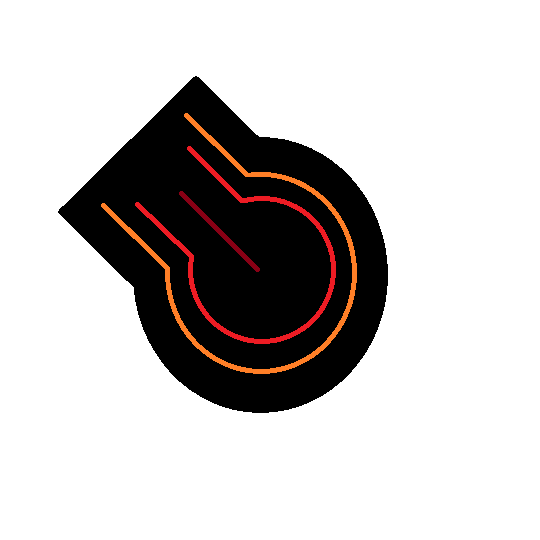
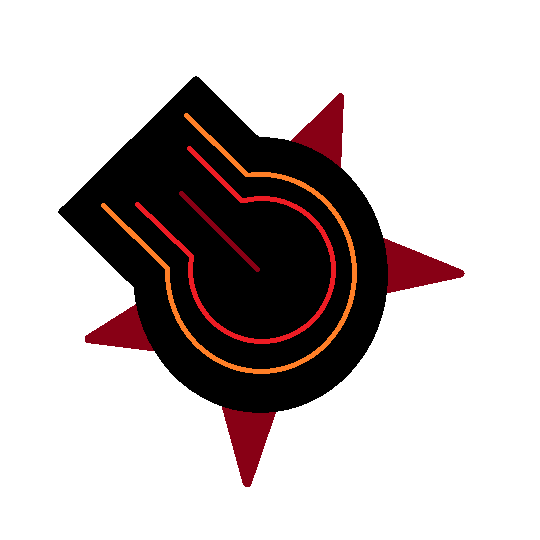
Updated sentry cannon pics, added Point.is_origin, fixed bug with sentry cannon targeting, updated sentry and forest heart descriptions.

diff --git a/Maneuver.js b/Maneuver.js
@@ -340,16 +340,20 @@ class Point{
      * (0, 0) returns false.
      */
     on_axis(){
-        var is_origin = point_equals(this, new Point(0, 0));
-        return (this.x === 0 || this.y === 0) && !is_origin;
+        return (this.x === 0 || this.y === 0) && !this.is_origin();
     }
     /**
      * @returns true if the point is on the lines y = x or y = -x, false otherwise.
      * (0, 0) returns false.
      */
     on_diagonal(){
-        var is_origin = point_equals(this, new Point(0, 0));
-        return Math.abs(this.x) === Math.abs(this.y) && !is_origin;
+        return Math.abs(this.x) === Math.abs(this.y) && !this.is_origin()
+    }
+    /**
+     * @returns true if the point is the origin (0, 0).
+     */
+    is_origin(){
+        return point_equals(this, new Point(0, 0));
     }
 }
 
@@ -1752,7 +1756,7 @@ const young_dragon_death_message =
 const forest_heart_floor_message = 
     `In the center of the floor stands a massive tree trunk spanning from floor to ceiling.`;
 const forest_heart_description = 
-    `An ancient tree warped by dark magic. Cannot take more than 1 damage each turn. `;
+    `Forest Heart (Boss): An ancient tree warped by dark magic. Cannot take more than 1 damage each turn. `;
 const forest_heart_death_message = 
     `Branches rain from above as the ancient tree is felled.`
 
@@ -1769,12 +1773,12 @@ const arcane_sentry_floor_message =
     `An alarm begins to blare.\n`
     +`INTRUDER DETECTED!`
 const arcane_sentry_description =
-    `An automated defense station. Changes modes in response to damage.`;
+    `Arcane Sentry (Boss): An automated defense station. Changes modes in response to damage.`;
 const arcane_sentry_death_message =
     `MAIN SYSTEMS FAILING!\n`
     +`The wailing alarm falls silent.`;
 const arcane_sentry_node_description =
-    `A transformable node controlled by the Arcane Sentry.`
+    `Arcane Sentry Node: A transformable node controlled by the Arcane Sentry.`
 const arcane_sentry_node_death_message =
     `NODE OFFLINE!`;
 
@@ -2317,7 +2321,7 @@ const SENTRY_MAX_CANNON_CYCLE = 3;
 
 /** @type {TileGenerator} */
 function arcane_sentry_tile(){
-    var health = 5;
+    var health = 6;
     if(GS.boons.has(boon_names.boss_slayer)){
         health -= 2;
     }
@@ -2408,6 +2412,7 @@ function arcane_sentry_death(self, target, map){
     for(var node of nodes){
         node.self.tile.health = 1;
         node.self.tile.on_hit = undefined;
+        node.self.tile.on_death = undefined;
         map.attack(node.self.location);
     }
     boss_death(self, target, map);
@@ -6939,7 +6944,7 @@ function sentry_transform_cannon(self, target, map){
             tile.direction = direction;
             set_rotation(tile);
             var node_difference = target.difference.minus(node.target.difference);
-            if(point_equals(node_difference.plus(direction), new Point(0, 0))){
+            if(node_difference.plus(direction).is_origin()){
                 // Node is behind core so should be double cannon.
                 tile.pic = `${IMG_FOLDER.tiles}arcane_sentry_node_double_cannon_d.png`;
                 tile.behavior = node_double_cannon_behavior;
@@ -6954,7 +6959,7 @@ function sentry_transform_cannon(self, target, map){
                 tile.description = arcane_sentry_node_description + `\n` + sentry_node_cannon_description;
             }
         }
-        self.tile.pic = `${IMG_FOLDER.tiles}arcane_sentry_core.png`;
+        self.tile.pic = `${IMG_FOLDER.tiles}arcane_sentry_core_cannon_d.png`;
         self.tile.telegraph = undefined;
         self.tile.direction = undefined;
         self.tile.description = arcane_sentry_description+ `\n` + sentry_core_cannon_description;
@@ -6962,7 +6967,7 @@ function sentry_transform_cannon(self, target, map){
 }
 
 function sentry_cannon_direction(difference){
-    if(difference.on_diagonal()){
+    if(difference.on_diagonal() || difference.on_axis()){
         return sign(difference);
     }
     if(-1 <= difference.x && difference.x <= 1){
@@ -8841,7 +8846,7 @@ class GameMap{
         if( // Pressure points boon
             stunned && 
             GS.boons.has(boon_names.pressure_points) > random_num(3) && 
-            !point_equals(direction, new Point(0, 0))
+            !direction.is_origin()
         ){
             this.player_attack(direction);
         }
@@ -9086,7 +9091,7 @@ class GameState{
                 }
                 if( // Dazing Blows
                     this.boons.has(boon_names.dazing_blows) && 
-                    !point_equals(action.change, new Point(0, 0)) &&
+                    !action.change.is_origin() &&
                     this.map.is_in_bounds(target) &&
                     !this.map.get_tile(target).tags.has(TAGS.boss)
                 ){
@@ -9094,7 +9099,7 @@ class GameState{
                 }
                 if( // Pacifism
                     this.boons.has(boon_names.pacifism) && 
-                    !point_equals(action.change, new Point(0, 0))
+                    !action.change.is_origin()
                 ){
                     stun_count += 2 * attack_count;
                     attack_count = 0;
@@ -10994,7 +10999,7 @@ function explain_action(action){
         case `teleport`:
             return move_types.teleport;
         case `stun`:
-            if(point_equals(action.change, new Point(0, 0))){
+            if(action.change.is_origin()){
                 return move_types.confuse;
             }
             return `${move_types.stun}: ${target}`;

diff --git a/source/2_entities/util/spells/arcane_sentry_spells/sentry_cannon.js b/source/2_entities/util/spells/arcane_sentry_spells/sentry_cannon.js
@@ -48,7 +48,7 @@ function sentry_transform_cannon(self, target, map){
             tile.direction = direction;
             set_rotation(tile);
             var node_difference = target.difference.minus(node.target.difference);
-            if(point_equals(node_difference.plus(direction), new Point(0, 0))){
+            if(node_difference.plus(direction).is_origin()){
                 // Node is behind core so should be double cannon.
                 tile.pic = `${IMG_FOLDER.tiles}arcane_sentry_node_double_cannon_d.png`;
                 tile.behavior = node_double_cannon_behavior;
@@ -63,7 +63,7 @@ function sentry_transform_cannon(self, target, map){
                 tile.description = arcane_sentry_node_description + `\n` + sentry_node_cannon_description;
             }
         }
-        self.tile.pic = `${IMG_FOLDER.tiles}arcane_sentry_core.png`;
+        self.tile.pic = `${IMG_FOLDER.tiles}arcane_sentry_core_cannon_d.png`;
         self.tile.telegraph = undefined;
         self.tile.direction = undefined;
         self.tile.description = arcane_sentry_description+ `\n` + sentry_core_cannon_description;
@@ -71,7 +71,7 @@ function sentry_transform_cannon(self, target, map){
 }
 
 function sentry_cannon_direction(difference){
-    if(difference.on_diagonal()){
+    if(difference.on_diagonal() || difference.on_axis()){
         return sign(difference);
     }
     if(-1 <= difference.x && difference.x <= 1){

diff --git a/source/1_gametext/descriptions/entities/bosses.js b/source/1_gametext/descriptions/entities/bosses.js
@@ -83,7 +83,7 @@ const young_dragon_death_message =
 const forest_heart_floor_message = 
     `In the center of the floor stands a massive tree trunk spanning from floor to ceiling.`;
 const forest_heart_description = 
-    `An ancient tree warped by dark magic. Cannot take more than 1 damage each turn. `;
+    `Forest Heart (Boss): An ancient tree warped by dark magic. Cannot take more than 1 damage each turn. `;
 const forest_heart_death_message = 
     `Branches rain from above as the ancient tree is felled.`
 
@@ -100,12 +100,12 @@ const arcane_sentry_floor_message =
     `An alarm begins to blare.\n`
     +`INTRUDER DETECTED!`
 const arcane_sentry_description =
-    `An automated defense station. Changes modes in response to damage.`;
+    `Arcane Sentry (Boss): An automated defense station. Changes modes in response to damage.`;
 const arcane_sentry_death_message =
     `MAIN SYSTEMS FAILING!\n`
     +`The wailing alarm falls silent.`;
 const arcane_sentry_node_description =
-    `A transformable node controlled by the Arcane Sentry.`
+    `Arcane Sentry Node: A transformable node controlled by the Arcane Sentry.`
 const arcane_sentry_node_death_message =
     `NODE OFFLINE!`;
 

diff --git a/source/0_assorted_util/general/Point.js b/source/0_assorted_util/general/Point.js
@@ -146,16 +146,20 @@ class Point{
      * (0, 0) returns false.
      */
     on_axis(){
-        var is_origin = point_equals(this, new Point(0, 0));
-        return (this.x === 0 || this.y === 0) && !is_origin;
+        return (this.x === 0 || this.y === 0) && !this.is_origin();
     }
     /**
      * @returns true if the point is on the lines y = x or y = -x, false otherwise.
      * (0, 0) returns false.
      */
     on_diagonal(){
-        var is_origin = point_equals(this, new Point(0, 0));
-        return Math.abs(this.x) === Math.abs(this.y) && !is_origin;
+        return Math.abs(this.x) === Math.abs(this.y) && !this.is_origin()
+    }
+    /**
+     * @returns true if the point is the origin (0, 0).
+     */
+    is_origin(){
+        return point_equals(this, new Point(0, 0));
     }
 }
 

diff --git a/source/3_data_structures/GameState.js b/source/3_data_structures/GameState.js
@@ -146,7 +146,7 @@ class GameState{
                 }
                 if( // Dazing Blows
                     this.boons.has(boon_names.dazing_blows) && 
-                    !point_equals(action.change, new Point(0, 0)) &&
+                    !action.change.is_origin() &&
                     this.map.is_in_bounds(target) &&
                     !this.map.get_tile(target).tags.has(TAGS.boss)
                 ){
@@ -154,7 +154,7 @@ class GameState{
                 }
                 if( // Pacifism
                     this.boons.has(boon_names.pacifism) && 
-                    !point_equals(action.change, new Point(0, 0))
+                    !action.change.is_origin()
                 ){
                     stun_count += 2 * attack_count;
                     attack_count = 0;

diff --git a/source/2_entities/bosses/arcane_sentry.js b/source/2_entities/bosses/arcane_sentry.js
@@ -9,7 +9,7 @@ const SENTRY_MAX_CANNON_CYCLE = 3;
 
 /** @type {TileGenerator} */
 function arcane_sentry_tile(){
-    var health = 5;
+    var health = 6;
     if(GS.boons.has(boon_names.boss_slayer)){
         health -= 2;
     }
@@ -100,6 +100,7 @@ function arcane_sentry_death(self, target, map){
     for(var node of nodes){
         node.self.tile.health = 1;
         node.self.tile.on_hit = undefined;
+        node.self.tile.on_death = undefined;
         map.attack(node.self.location);
     }
     boss_death(self, target, map);

diff --git a/source/5_move_cards/CardUtils.js b/source/5_move_cards/CardUtils.js
@@ -134,7 +134,7 @@ function explain_action(action){
         case `teleport`:
             return move_types.teleport;
         case `stun`:
-            if(point_equals(action.change, new Point(0, 0))){
+            if(action.change.is_origin()){
                 return move_types.confuse;
             }
             return `${move_types.stun}: ${target}`;

diff --git a/source/3_data_structures/GameMap.js b/source/3_data_structures/GameMap.js
@@ -763,7 +763,7 @@ class GameMap{
         if( // Pressure points boon
             stunned && 
             GS.boons.has(boon_names.pressure_points) > random_num(3) && 
-            !point_equals(direction, new Point(0, 0))
+            !direction.is_origin()
         ){
             this.player_attack(direction);
         }
